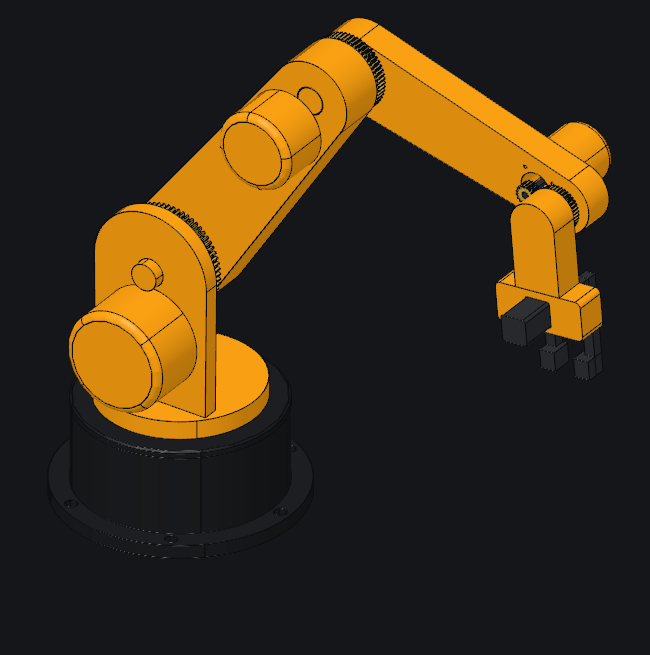
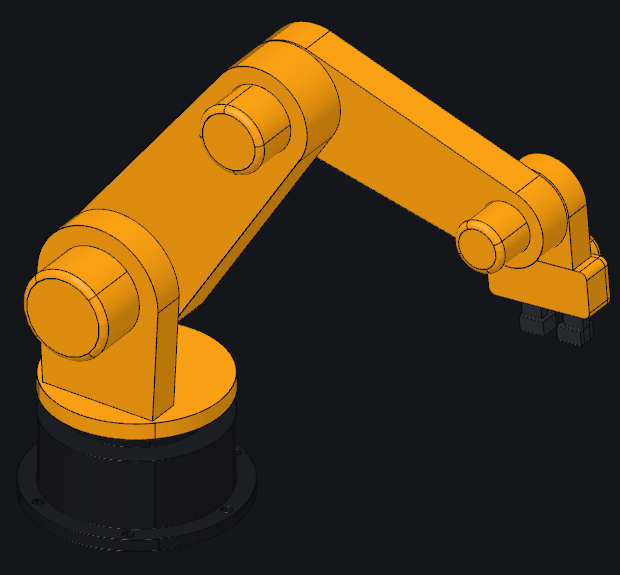
Robot arm with enclosed planetary drives

Changed region(s): [[0.0306, 0.0296, 1.0, 0.7687]]

diff --git a/tests/assembly.rs b/tests/assembly.rs
@@ -680,7 +680,7 @@ fn robot_arm_example() {
             .filter_map(|(line, r)| r.as_ref().err().map(|e| format!("{}: {e:#}", line.number)))
             .collect();
         assert!(failed.is_empty(), "{failed:?}");
-        assert_eq!(run.model.body_names().len(), 25);
+        assert_eq!(run.model.body_names().len(), 34);
         ["finger_a", "finger_b"].map(|name| {
             linecad::geometry::bounds(&run.model.named_body(name).expect("finger")).center()
         })

diff --git a/README.md b/README.md
@@ -27,13 +27,16 @@ Part files (`.lcad`) build one or more bodies. Assembly files (`.lasm`) bring pa
 from part files, place them, join them with turning and sliding joints and check
 that they do not overlap.
 
-`examples/robot/arm.lasm` is a five-axis arm built this way. A stepper motor drives
-each joint through a pair of involute spur gears, and a rack and pinion opens the
-gripper. Open it in the viewer and drag the joint sliders: the motor pinions turn with
-the joints, and the explode slider lifts the covers off the motors and the turret off
-the base so the gears inside show.
+`examples/robot/arm.lasm` is a robot arm built the way industrial arms are: each
+joint has a motor on its axis under a round cover, driving a planetary reducer
+enclosed in the joint housing. The ring gear is cut into the housing, the sun sits on
+the motor shaft, and the three planets turn on pins of the next link, which is the
+reducer's output. The gripper's fingers are racks on one pinion inside its housing.
+Drag the joint sliders in the viewer and every sun and planet turns at its ratio; the
+explode slider and the section tool show the gears inside.
 
 ![The robot arm example in the viewer](docs/robot-arm.png)
+![A section through the shoulder reducer](docs/robot-arm-section.png)
 
 With no command, `linecad` opens the viewer: a live view of the file that rebuilds on
 save, with a view cube, measuring, and sliders for an assembly's joints.

diff --git a/docs/format.md b/docs/format.md
@@ -196,10 +196,12 @@ no geometry of its own. Its lines have the same shape and use `let`, `if` and
 `faces` in `parallel`, `angle`, `distance` and `tangent` is either flat faces on one
 plane or the round faces of one cylinder, which stands for its axis.
 
-`examples/robot/arm.lasm` puts these together: every motor is mated to the link that
-carries it, its pinion turns on it with a `turn` joint, and a `couple` makes the pinion
-follow the joint it drives at the gear ratio. The gripper's fingers are racks on one
-pinion, so one `slide` drives both. The arm's own variables pose it:
+`examples/robot/arm.lasm` puts these together. Each joint is a planetary reducer: the
+motor is mated to the housing, its sun turns on it with a `turn` joint coupled to the
+arm joint at `1+ring/sun`, and one planet turns on the output link coupled at
+`-ring/planet`; `pattern planet count=3 angle=360 axis=...` adds the other two with
+their joints and couples. The gripper's fingers are racks on one pinion, so one `slide`
+drives both. The arm's own variables pose it:
 `linecad check examples/robot/arm.lasm --set shoulder=30 --set jaw=6`.
 
 A part can have several joints to the same parent, and their motions add up. They
